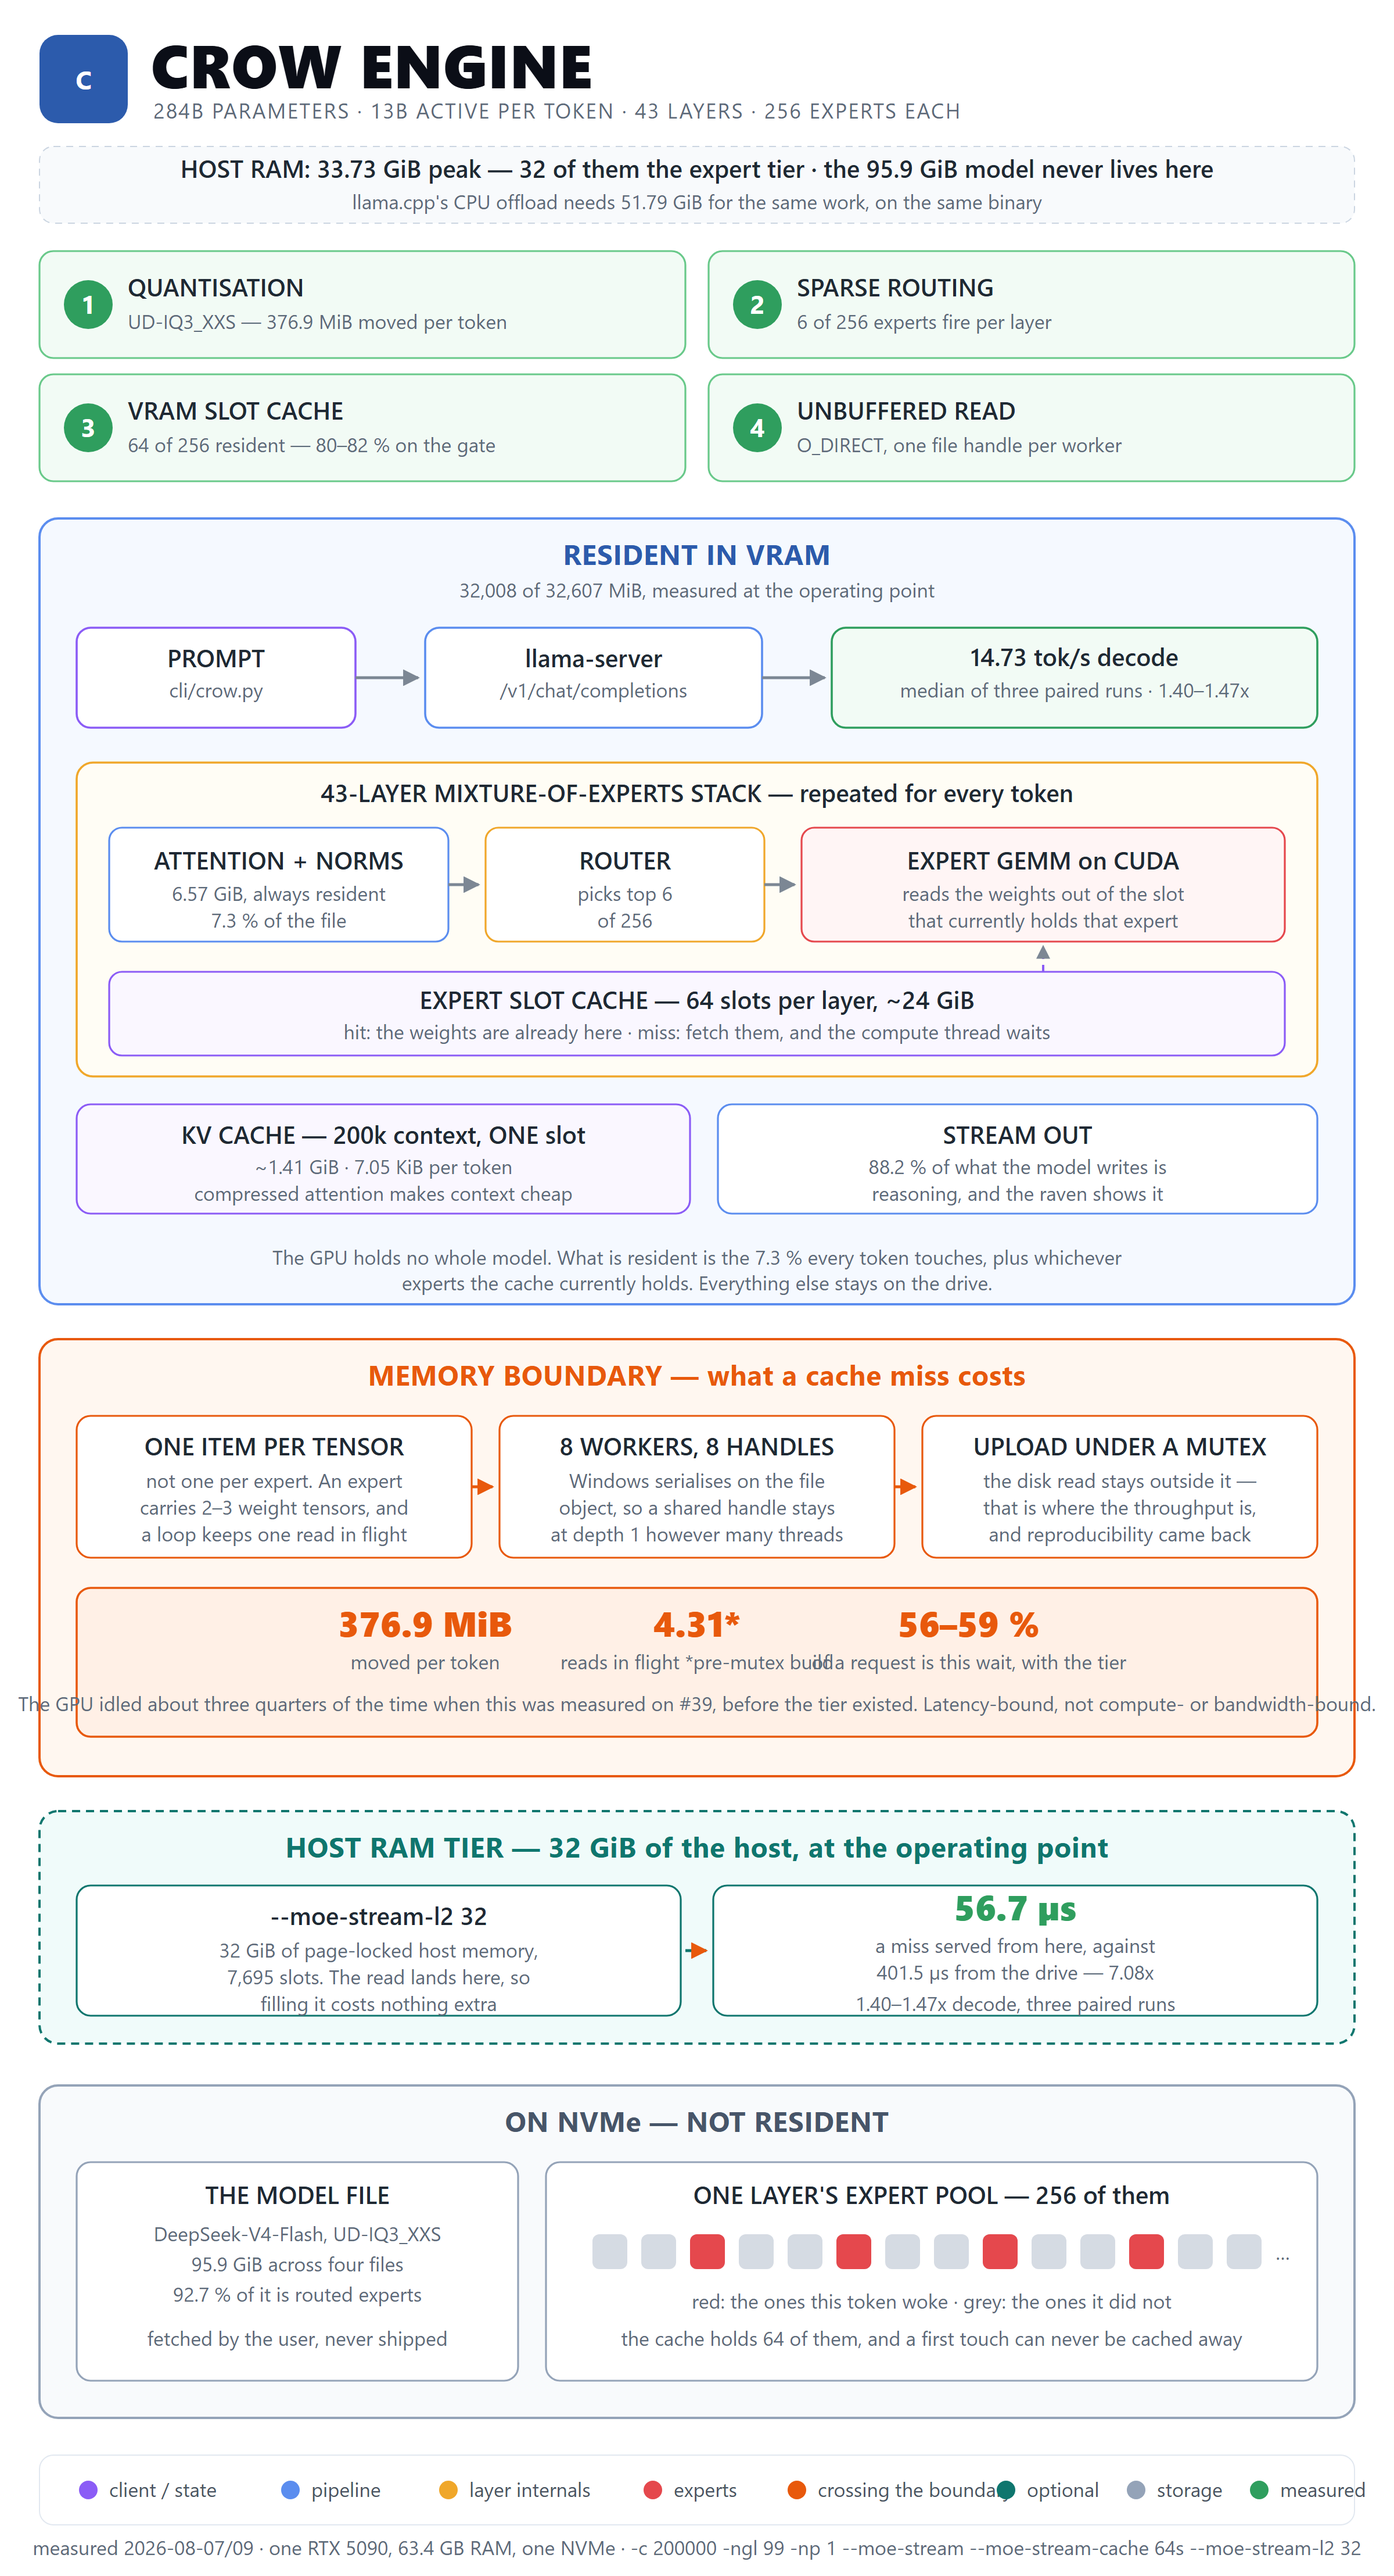
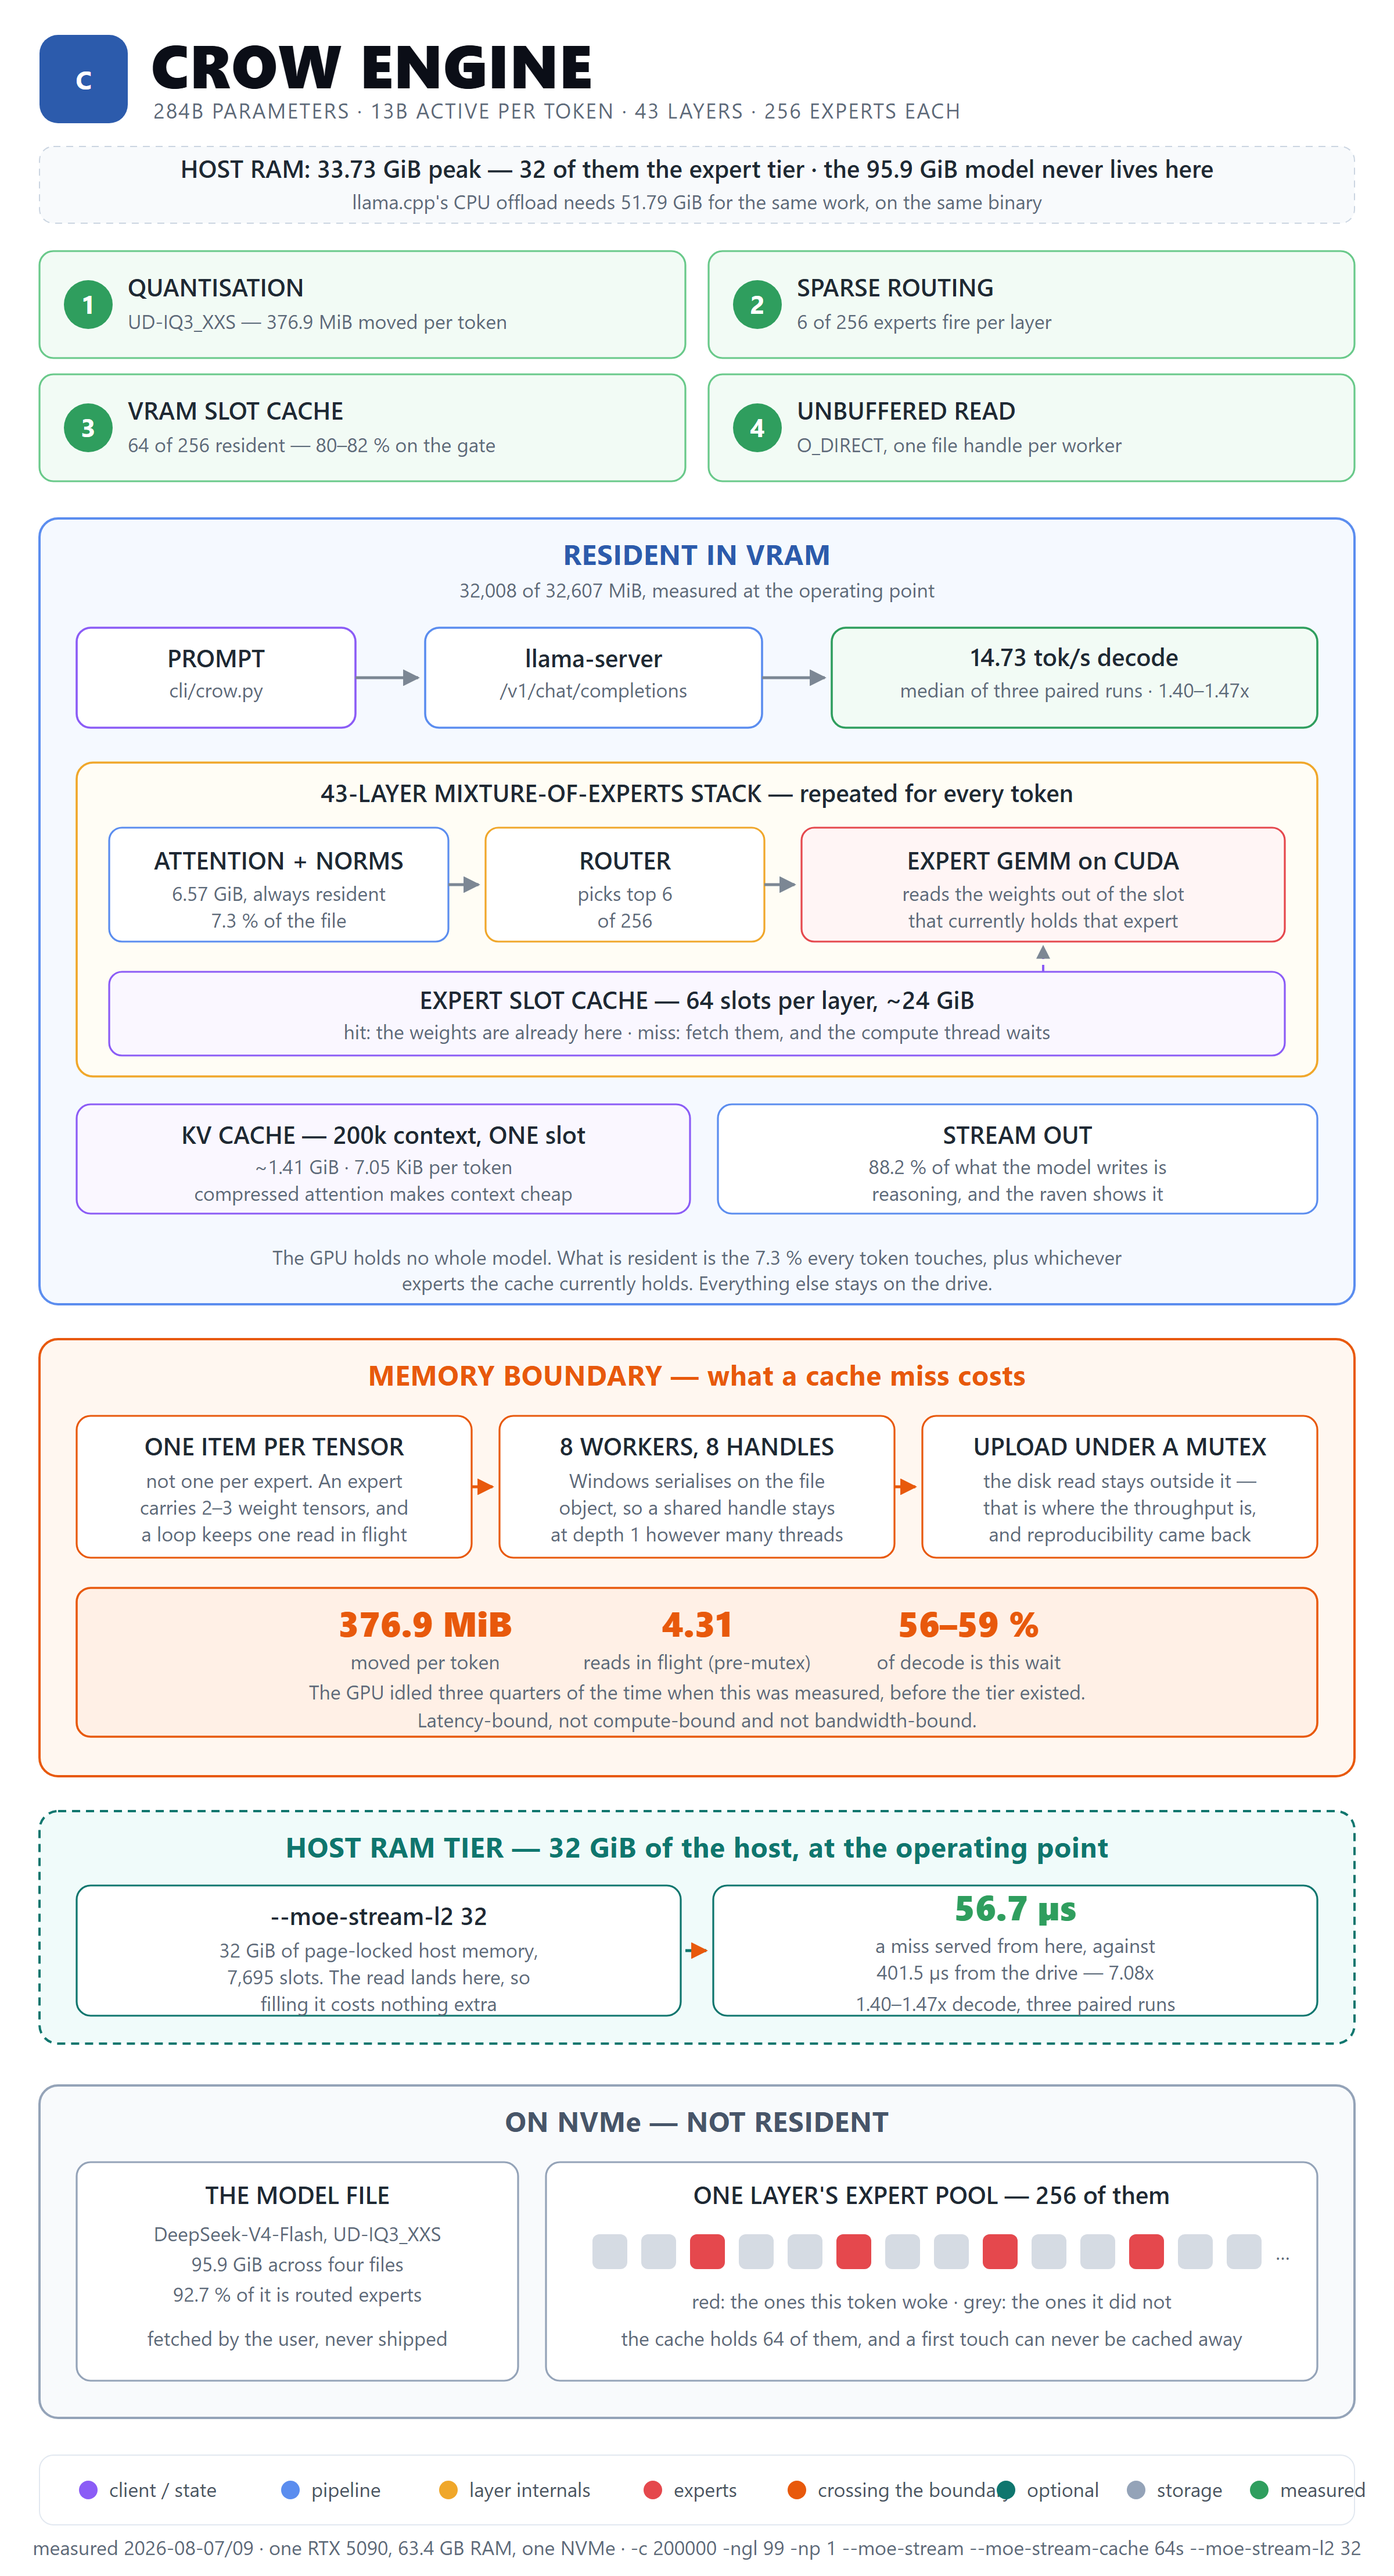
Labels that fit their boxes, and no internal ticket number in a public diagram
Three edits to architecture.svg during the 0.0.5 correction grew labels past their rectangles. SVG
has no reflow: the text simply draws over the border and nothing in the file complains. It was
found by looking at the picture, twice, which is not a check.

  - "of a request is this wait, with the tier" and "reads in flight *pre-mutex build" overlapped
    their neighbours in a three-column row of 234px each
  - the sentence under them was 151 characters in a 1036px box

The long one is two lines now, and it lost the "#39" I had put in it. An internal issue number has
no business in a diagram that goes to Reddit and LinkedIn.

tools/check-svg-fit.py measures instead of looking. A first version multiplied character count by
an average width and picked the last rectangle whose x-range contained the text - which on this
file is one of the 30px expert squares. It reported 50 false positives, and a checker that cries
wolf is worse than none. This one asks Segoe UI for the real string and finds the box by x AND y,
smallest containing rectangle wins.

83 labels checked, 0 overflowing. Selftest 6/6, including a label that must be caught and a point
that must fall back to the page rect.

Changed region(s): [[0.2188, 0.6227, 0.7812, 0.685]]

diff --git a/tools/check-svg-fit.py b/tools/check-svg-fit.py
@@ -1,0 +1,129 @@
+"""Does every label in a hand-written SVG fit the box it sits in?
+
+WHY IT EXISTS. Editing text in architecture.svg is editing a fixed-width layout with no reflow: a
+label that grows past its rectangle simply draws over the border, and nothing in the file complains.
+On 2026-08-09 three edits did exactly that and the defect was found by a human looking at the
+picture, twice.
+
+WHY IT MEASURES INSTEAD OF ESTIMATING. A first version multiplied the character count by an average
+width. That is wrong by 30 % between "MMM" and "iii", and it also picked the wrong box: it took the
+last rectangle whose x-range contained the text, which on this file is one of the 30px expert
+squares. Both mistakes made it report 50 false positives - a checker that cries wolf is worse than
+none. This one asks the real font for the real string, and finds the box by x AND y.
+
+    python tools/check-svg-fit.py docs/images/architecture.svg
+    python tools/check-svg-fit.py --selftest
+
+Exit 0 = everything fits. 1 = at least one label overflows. 2 = setup error.
+"""
+
+import re
+import sys
+from pathlib import Path
+
+try:
+    from PIL import ImageFont
+except ImportError:
+    print("SETUP ERROR: Pillow is required (pip install pillow)")
+    raise SystemExit(2)
+
+# The stylesheet's font sizes, by class. Read from the file rather than assumed, because a class
+# whose size changes and is not mirrored here would silently pass.
+FONT = r"C:\Windows\Fonts\segoeui.ttf"
+BOLD = r"C:\Windows\Fonts\segoeuib.ttf"
+PAD = 16          # what a label needs to clear the rounded border on each side
+
+
+def font_sizes(svg: str) -> dict:
+    out = {}
+    for cls, body in re.findall(r"\.(\w+)\s*\{([^}]*)\}", svg):
+        m = re.search(r"font-size:\s*(\d+)px", body)
+        if m:
+            w = re.search(r"font-weight:\s*(\d+|bold)", body)
+        out[cls] = (int(m.group(1)), bool(w) and w.group(1) in ("bold", "600", "700", "800", "900"))
+    return out
+
+
+def boxes(svg: str):
+    """Every rect as (x, y, w, h). Order preserved; the smallest containing one wins."""
+    return [tuple(int(v) for v in m)
+            for m in re.findall(r'<rect x="(\d+)" y="(\d+)" width="(\d+)" height="(\d+)"', svg)]
+
+
+def containing(bs, x, y):
+    """Smallest box containing the point, or None. Size is the tie-breaker: a label sits in its
+    own card, not in the zone that card is drawn on."""
+    hit = [b for b in bs if b[0] <= x <= b[0] + b[2] and b[1] <= y <= b[1] + b[3]]
+    return min(hit, key=lambda b: b[2] * b[3]) if hit else None
+
+
+def check(path: Path):
+    svg = path.read_text(encoding="utf-8")
+    sizes, bs = font_sizes(svg), boxes(svg)
+    bad = 0
+    n = 0
+    for m in re.finditer(r'<text x="(\d+)" y="(\d+)"[^>]*?class="(\w+)"[^>]*>([^<]+)</text>', svg):
+        x, y, cls, txt = int(m.group(1)), int(m.group(2)), m.group(3), m.group(4)
+        if cls not in sizes:
+            continue
+        size, is_bold = sizes[cls]
+        box = containing(bs, x, y)
+        if box is None:
+            continue
+        n += 1
+        f = ImageFont.truetype(BOLD if is_bold else FONT, size)
+        w = f.getlength(txt)
+        avail = box[2] - 2 * PAD
+        if w > avail:
+            bad += 1
+            print(f"  OVERFLOW  {w:5.0f}px in {avail}px  (.{cls}, box {box[2]}px)  {txt[:66]}")
+    print(f"\n{n} labels checked, {bad} overflowing")
+    return 1 if bad else 0
+
+
+def selftest() -> int:
+    """The checker has to be able to go red, and to find the RIGHT box."""
+    svg = """<svg><defs><style>.sub{font-size:17px;fill:#000;}.tb{font-size:21px;font-weight:600;}</style></defs>
+  <rect x="0" y="0" width="1200" height="900"/>
+  <rect x="66" y="100" width="200" height="60"/>
+  <text x="166" y="130" class="sub">short</text>
+  <text x="166" y="150" class="sub">a label far too long for two hundred pixels of card</text>
+  <text x="600" y="500" class="tb">on the outer box only</text>
+</svg>"""
+    p = Path("__fit_selftest.svg")
+    p.write_text(svg, encoding="utf-8")
+    try:
+        sizes, bs = font_sizes(svg), boxes(svg)
+        ok = 0
+        fail = 0
+
+        def c(name, want, got):
+            nonlocal ok, fail
+            if want == got:
+                ok += 1
+                print(f"  PASS  {name}")
+            else:
+                fail += 1
+                print(f"  FAIL  {name}  want={want} got={got}")
+
+        c("font sizes read from the stylesheet", (17, False), sizes["sub"])
+        c("bold detected", True, sizes["tb"][1])
+        # The inner card must win over the 1200px page rect - that was the original defect.
+        c("smallest containing box wins", (66, 100, 200, 60), containing(bs, 166, 130))
+        c("a point outside every card falls back to the page", (0, 0, 1200, 900), containing(bs, 600, 500))
+        c("a point outside everything is None", None, containing(bs, 5000, 5000))
+        rc = check(p)
+        c("the long label is caught", 1, rc)
+        print(f"\n{ok} passed, {fail} failed")
+        return 1 if fail else 0
+    finally:
+        p.unlink(missing_ok=True)
+
+
+if __name__ == "__main__":
+    if "--selftest" in sys.argv:
+        raise SystemExit(selftest())
+    if len(sys.argv) < 2:
+        print(__doc__)
+        raise SystemExit(2)
+    raise SystemExit(check(Path(sys.argv[1])))
